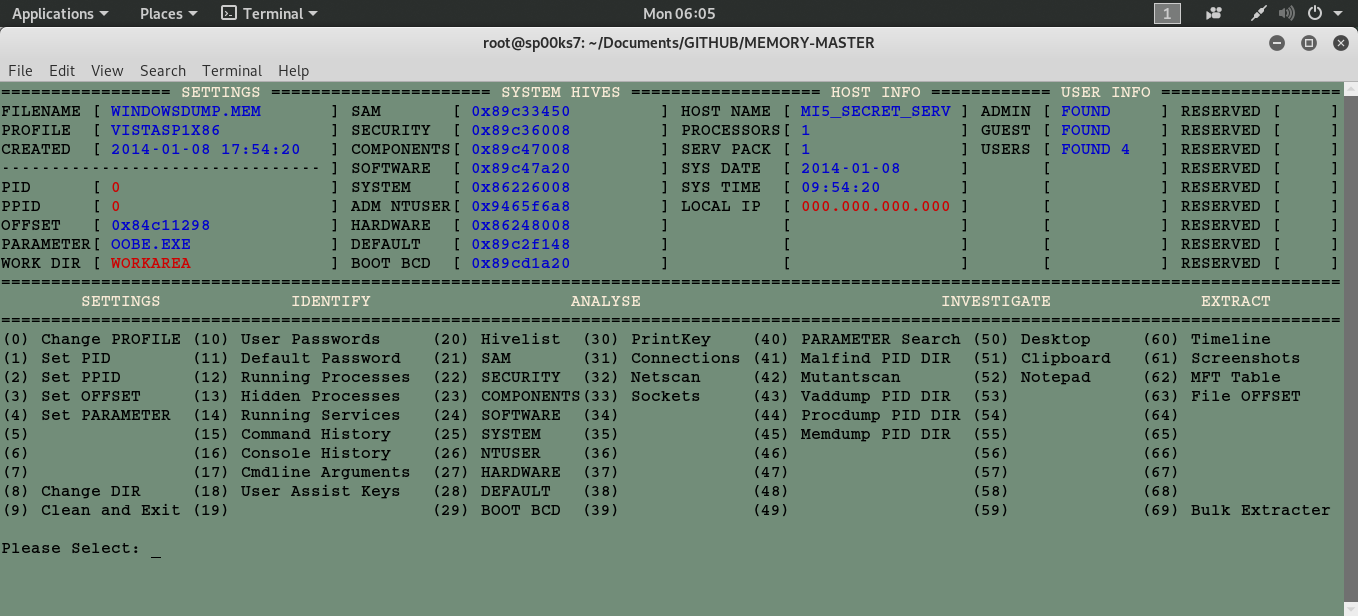
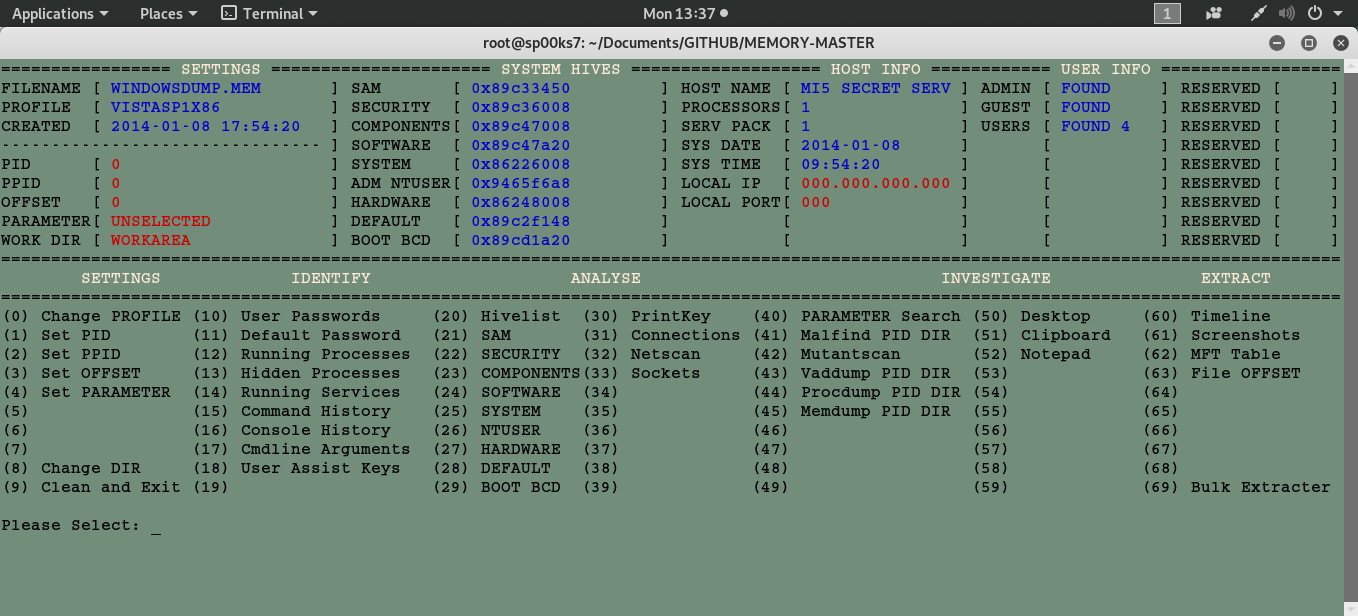
changes

Changed region(s): [[0.0, 0.0925, 1.0, 0.8945], [0.4948, 0.0, 0.5258, 0.0308]]

diff --git a/memory_master.py b/memory_master.py
@@ -85,6 +85,7 @@ SVP = "0              "
 DA2 = "NOT FOUND      "
 TI2 = "NOT FOUND      "
 HIP = "000.000.000.000"
+POR = "000            "
 ADM = "NOT FOUND"
 GUS = "NOT FOUND"
 USR = "NOT FOUND"
@@ -144,11 +145,13 @@ profiles = profiles.replace(" ","")
 profiles = profiles.split(",")
 PRO = " --profile " + profiles[0]
 PR2 = profiles[0]
-if PR2[:2] == "":
+if (PR2[:1] == "W") or (PR2[:1] == "V"):
+   while len(PR2) < 21:
+      PR2 = PR2 + " "
+else:
    print "ERROR - Windows profile not found..."
    exit(True)
-while len(PR2) < 21:
-   PR2 = PR2 + " "
+
 #-------------------------------------------------------------------------------------
 # Find number of processors, service pack status and creation & local dates and times.
 #-------------------------------------------------------------------------------------
@@ -234,7 +237,7 @@ with open("hivelist.txt") as fp:
          SAM = line.split(None, 1)[0]
          while len(SAM) < 18:
             SAM = SAM + " "
-      if "SECURITY" in line:
+      if "\SECURITY" in line:
          SEC = line.split(None, 1)[0]
          while len(SEC) < 18:
             SEC = SEC + " "
@@ -250,7 +253,7 @@ with open("hivelist.txt") as fp:
          COM = line.split(None, 1)[0]
          while len(COM) < 18:
             COM = COM + " "
-      if "\Administrator\NTUSER.DAT" in line: # \Administrator\NTUSER.DAT as multiple NTUSERS.
+      if "\Administrator\NTUSER.DAT" in line: # \Administrator\NTUSER.DAT as multiple NTUSERS files. 
          NTU = line.split(None, 1)[0]
          while len(NTU) < 18:
             NTU = NTU + " "
@@ -277,9 +280,12 @@ if getip != "":
    getip = getip.split()
    getip = getip[1].replace(':',' ')  
    HIP = getip.rsplit(' ', 1)[0]
+   POR = getip.rsplit(' ', 1)[1]
    HIP = HIP.rstrip('\n')
    while len(HIP) < 15:
       HIP = HIP + " "
+   while len(POR) < 15:
+      POR = POR + " "
 os.remove('connscan.txt')
 
 # -------------------------------------------------------------------------------------
@@ -430,7 +436,12 @@ def Display():
       print colored(HRD,'red'),
    else:
       print colored(HRD,'blue'),
-   print "]           [                 ]",
+   print "] LOCAL PORT[",
+   if POR == "000            ":
+      print colored(POR,'red'),
+   else:
+      print colored(POR,'blue'),
+   print "]",
    print "      [           ]",
    print "RESERVED [     ]"
 
@@ -939,7 +950,7 @@ while True:
 # -------------------------------------------------------------------------------------
 
    if selection =='28':
-      if (HRD == "0x0000000000000000"):
+      if (DEF == "0x0000000000000000"):
          print colored("DEFUALT Hive missing - it is not possible to extract data...",'red')
       else:
          os.system("volatility -f " + fileName + PRO + " hivedump -o " + DEF)

diff --git a/README.md b/README.md
@@ -7,7 +7,7 @@ Python utility file to forensically investigate memory-dump files via volatility
 
 | LANGUAGE  | FILENAME         | MD5 Hash                         |
 |------     |------            | -------                          |
-| python    | memory_master.py | d60476a60f937e3e421f01aacc7cce71 |
+| python    | memory_master.py | ce401928eddc3f4bec7a1f668e4c3096 |
 | text file | profiles.txt     | 90a98544725dc945df30c20fabeb3e80 |
 | bash file | patch.sh         | 7a4231731982e09d9a703f7357170755 |
 
